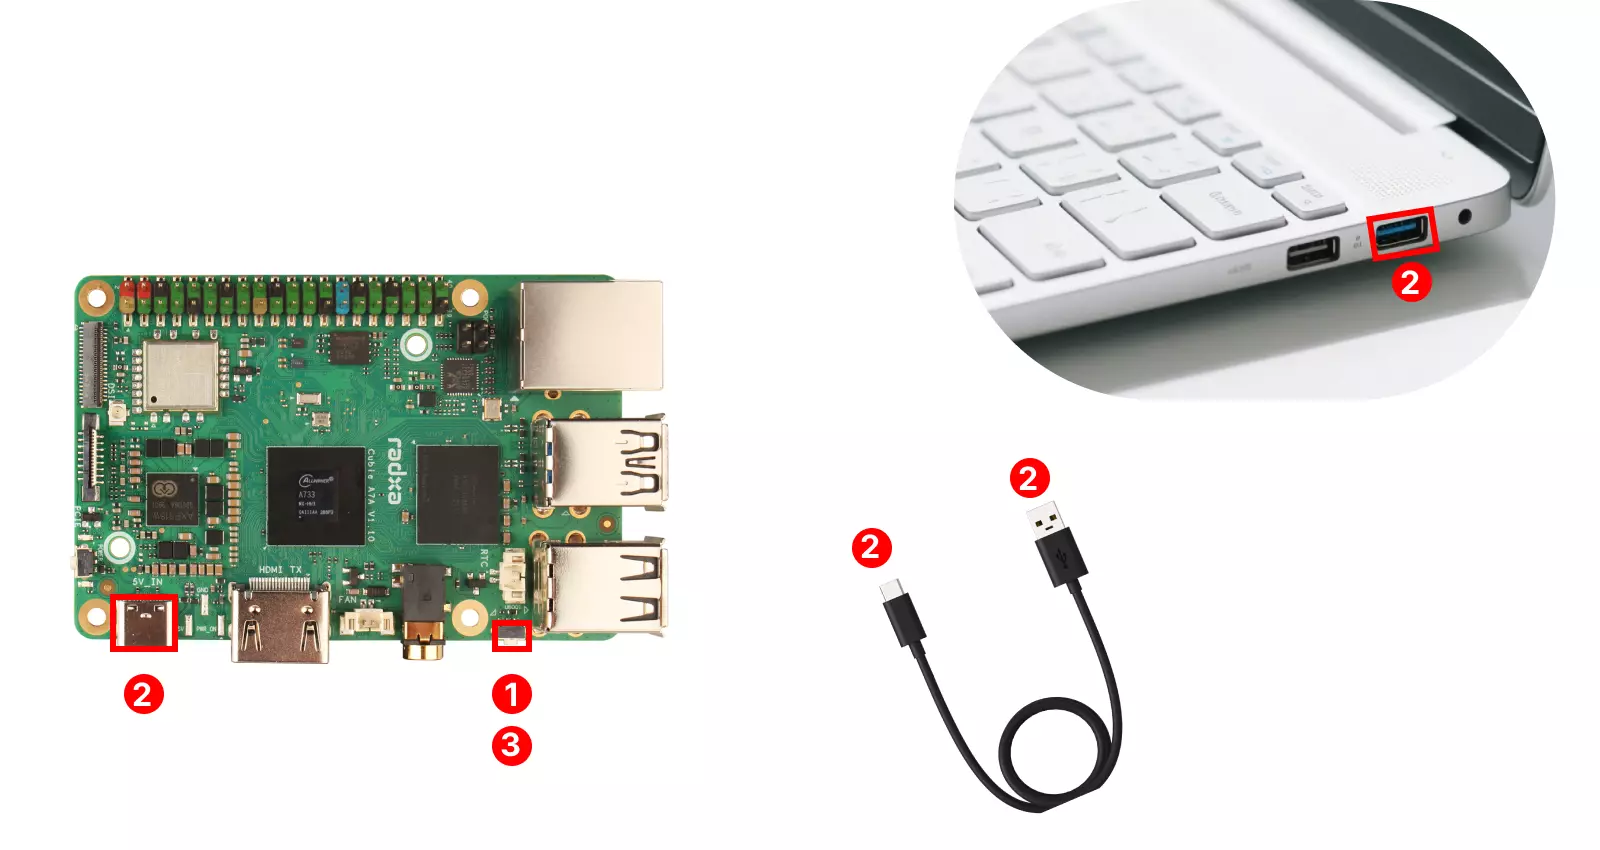
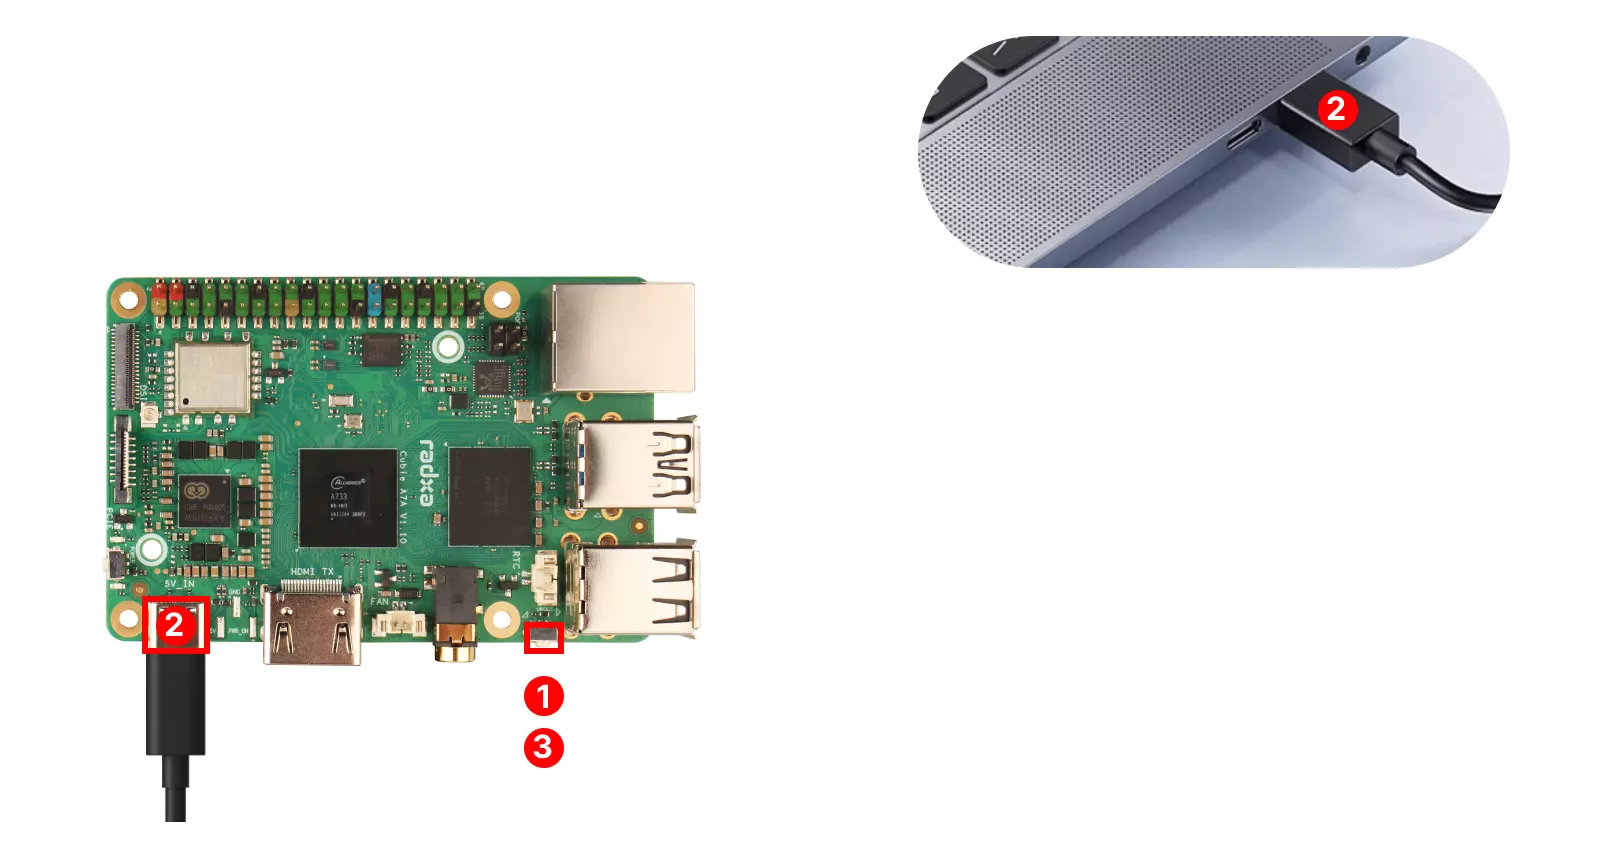
feat: add low level dev

diff --git a/docs/cubie/a7a/low-level-dev/fel-install-system/README.md b/docs/cubie/a7a/low-level-dev/fel-install-system/README.md
@@ -1,0 +1,7 @@
+---
+sidebar_position: 1
+---
+
+# FEL 模式安装系统
+
+介绍如何在全志 Cubie A7A 的 FEL 模式下安装系统到 eMMC 和 UFS 模块上。

diff --git a/docs/cubie/a7a/low-level-dev/README.md b/docs/cubie/a7a/low-level-dev/README.md
@@ -1,0 +1,7 @@
+---
+sidebar_position: 5
+---
+
+# 底层开发
+
+对瑞莎 Cubie A7A 进行底层开发做简单的介绍。

diff --git a/docs/cubie/a7a/download.md b/docs/cubie/a7a/download.md
@@ -1,5 +1,5 @@
 ---
-sidebar_position: 5
+sidebar_position: 6
 ---
 
 # 资源汇总下载
